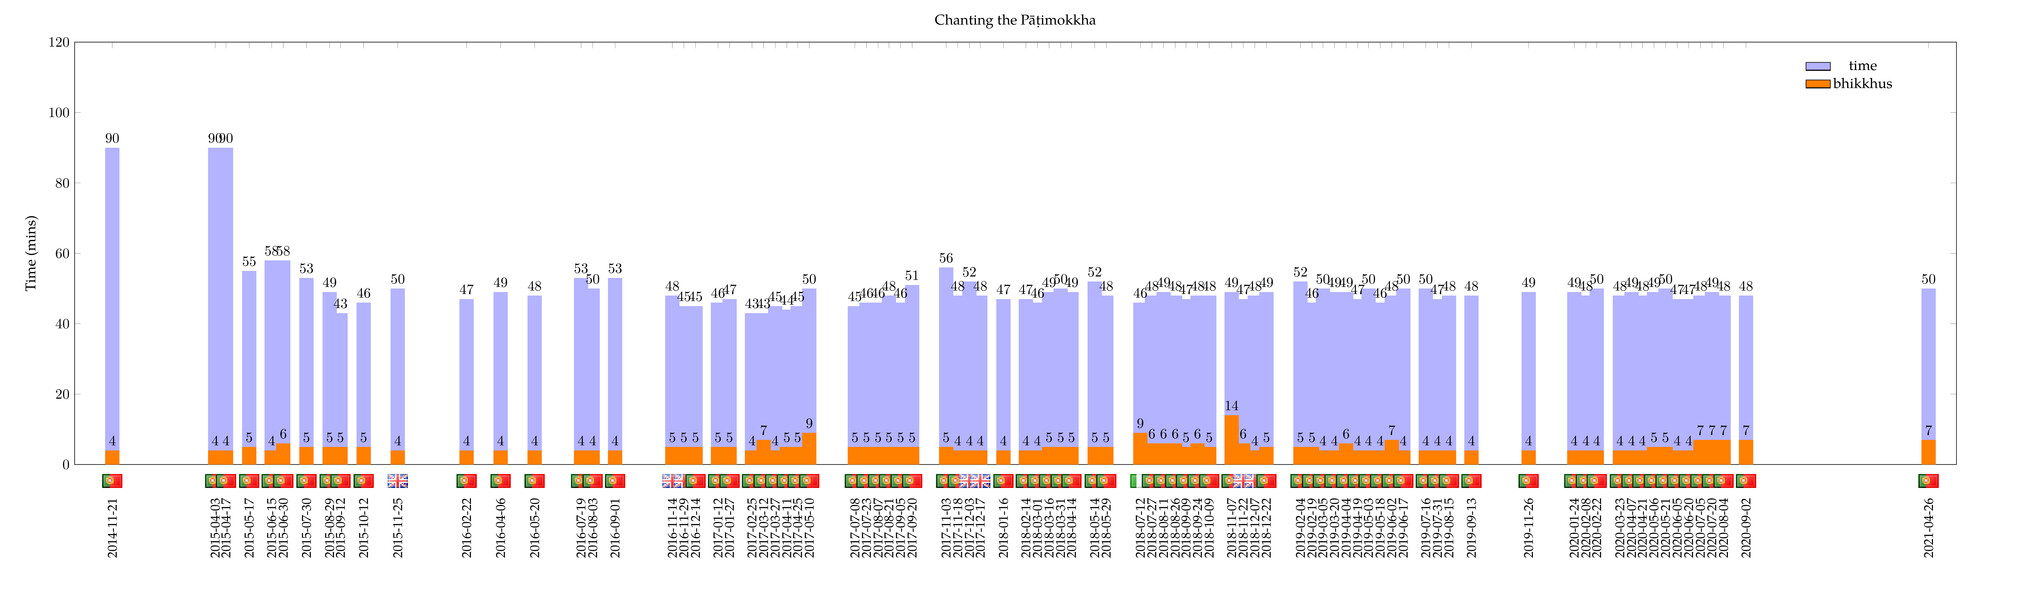
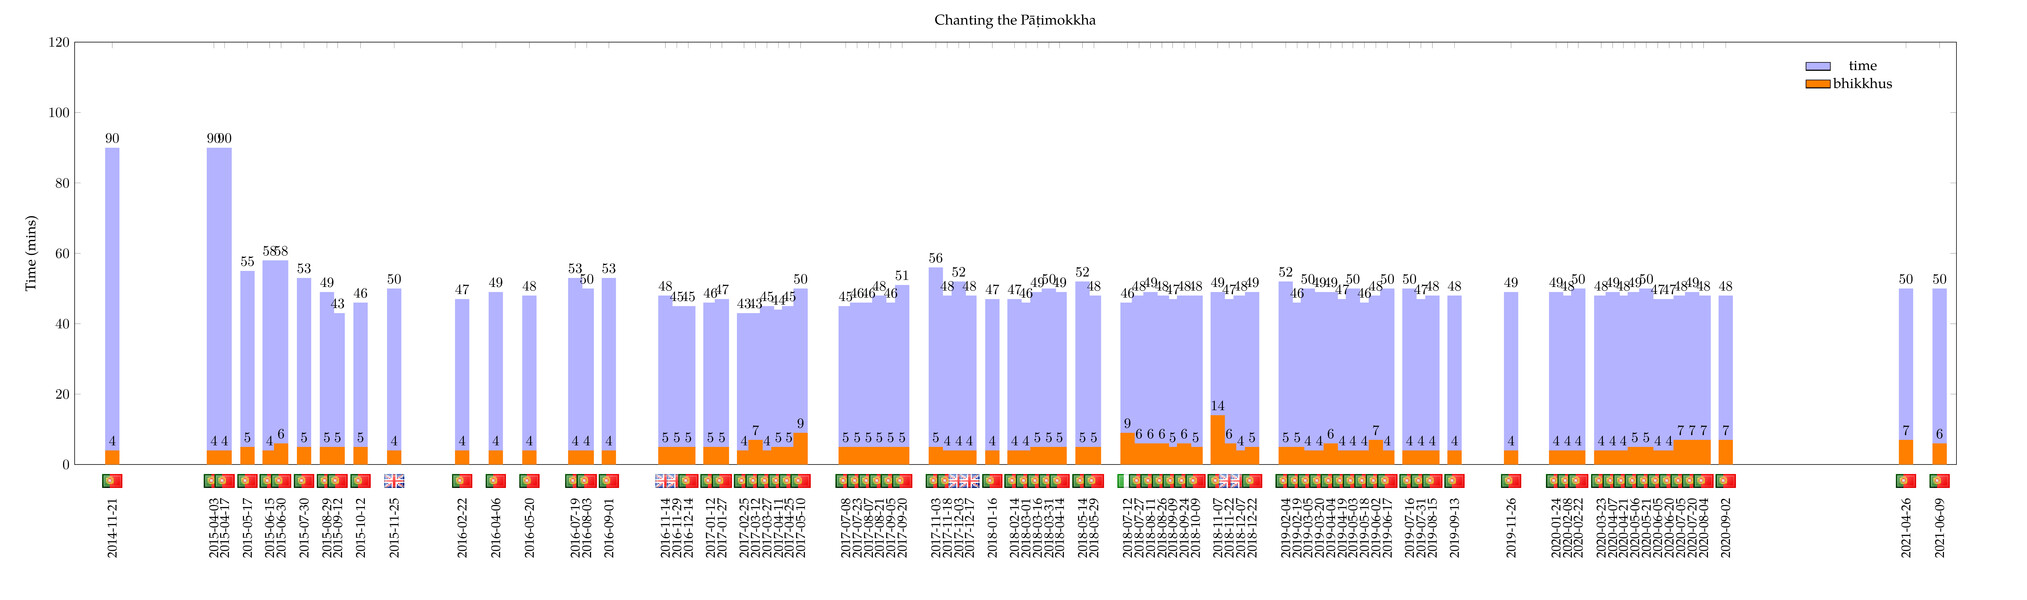
upd

Changed region(s): [[0.0932, 0.39, 0.8703, 0.93], [0.9324, 0.45, 0.9635, 0.93], [0.0932, 0.21, 0.1243, 0.24]]

diff --git a/src/patimokkha-chanting-chart.tex b/src/patimokkha-chanting-chart.tex
@@ -58,7 +58,7 @@
     ylabel=Time (mins),
     xtick=data,
     xmin=2014-11-20,
-    xmax=2021-06-01,
+    xmax=2021-07-01,
     enlarge x limits={rel=0.02,lower},
     xticklabel style={yshift=-20pt,rotate=90,anchor=east,font=\small},
     xticklabel={\year-\month-\day},
@@ -174,6 +174,7 @@
   \node [anchor=south, yshift=-20pt] at (axis cs:2020-08-04,0) {\includegraphics[width=5mm]{pt}};
   \node [anchor=south, yshift=-20pt] at (axis cs:2020-09-02,0) {\includegraphics[width=5mm]{pt}};
   \node [anchor=south, yshift=-20pt] at (axis cs:2021-04-26,0) {\includegraphics[width=5mm]{pt}};
+  \node [anchor=south, yshift=-20pt] at (axis cs:2021-06-09,0) {\includegraphics[width=5mm]{pt}};
 
 \end{axis}
 \end{tikzpicture}
